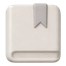
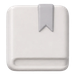
홈 머리글 입체 아이콘을 시안처럼: 색은 회백색으로, 크기 25dp·맨 끝 여백 14dp(화면 폭 비로 맞춤)

diff --git a/app/src/features/home/HomeScreen.tsx b/app/src/features/home/HomeScreen.tsx
@@ -96,8 +96,9 @@ const EMPTY_IDS: readonly string[] = [];
 const FRONT_HIT = 48;
 const FRONT_PAD = 10;
 const HEADER_TEXT_MAX = 1.3; // 머리줄 글자는 시스템 확대를 1.3배까지만(선반과 겹치지 않게)
-// 머리줄 오른쪽 아이콘(2026-11-10 사용자가 준 입체 아이콘 그림, assets/header: 투명 바탕 1·2·3배). 시안: 그림 약 20dp, 간격 약 33dp, 맨 끝 그림이 화면 끝에서 약 15dp
-const HEADER_ART = 22;
+// 머리줄 오른쪽 아이콘(2026-11-10 사용자가 준 입체 아이콘 그림, assets/header: 투명 바탕 1·2·3배, 시안 회백색으로 맞춤). 시안(화면 폭 대비): 그림 약 5.6%(411dp에서 23dp),
+// 간격 8.3%(34dp), 맨 끝 그림이 화면 끝에서 3.3%(14dp)
+const HEADER_ART = 25;
 const HEADER_CELL = 34;
 const HEADER_ICONS = {
   store: require('../../../assets/header/store.png'),
@@ -1187,8 +1188,8 @@ const styles = StyleSheet.create({
   header: { flexDirection: 'row', alignItems: 'flex-start' }, // 탭 첫 화면 머리줄과 같은 정렬(제목 위 기준)
   titles: { flex: 1, minWidth: 0 },
   year: { color: colors.inkSoft, marginTop: 4 },
-  // 아이콘 가운데는 제목 줄(34) 가운데보다 약 6dp 아래(시안), 맨 끝 그림은 화면 끝에서 약 15dp(머리줄 좌우 여백 24에서 당긴다)
-  actions: { flexDirection: 'row', alignItems: 'center', marginTop: 1, marginRight: -(tabHeader.paddingHorizontal - 15 - (HEADER_CELL - HEADER_ART) / 2) },
+  // 아이콘 가운데는 제목 줄(34) 가운데보다 약 6dp 아래(시안), 맨 끝 그림은 화면 끝에서 약 14dp: 머리줄 좌우 여백 24에서 칸 끝을 14 − (칸 − 그림)/2 자리까지 당긴다
+  actions: { flexDirection: 'row', alignItems: 'center', marginTop: 1, marginRight: -(tabHeader.paddingHorizontal - 14 + (HEADER_CELL - HEADER_ART) / 2) },
   headerIcon: { width: HEADER_CELL, height: 44, alignItems: 'center', justifyContent: 'center' },
   headerArt: { width: HEADER_ART, height: HEADER_ART },
   toast: {

diff --git a/docs/DESIGN.md b/docs/DESIGN.md
@@ -331,7 +331,7 @@
 
 - **움푹 파인 책장**(2026-11-04 사용자 시안, `scene-config/skin.ts`): 선반·틀·벽지를 스킨으로 나눴다. 시안 구도는 `LOOK`(거리 3300, 눈높이 150, 판 19mm). 맞닿는 면은 모서리에서 투명하게 번져 밑면으로 넘어간다(`softEdge`, 폭 3mm, 뒷벽 꼭지점 6mm). 틀 없는 전 책장은 `pine,none,white`로 그대로 켤 수 있다.
 - **잠긴 선반**(2026-11-04 사용자 시안, `features/home/LockedShelves.tsx`, `domain/locked-preview.ts`): 기본 3칸 아래 2칸(`SHELF_SLOTS` 5). 보통 줄과 같은 빛으로 색만 있는 예시 책을 세우고 책만 흐리게 한다(벽의 그림자는 또렷). 자물쇠(`#3F4347`), 누르면 구매 시트. 연 칸은 보통 선반으로 배치에 저장된다. **결제는 아직 연결하지 않아 '무료로 열기'로 표시한다.**
-- **홈 머리글 오른쪽 아이콘**(2026-11-10 사용자가 준 입체 아이콘 그림, `app/assets/header/*.png` 투명 바탕 1·2·3배, 잘라 만든 스크립트는 그림 원본과 함께 보관하지 않는다): 스토어·붓(꾸미기)·갈피 꽂힌 책(전체 책)·더하기. 그림 22dp, 칸 34dp(누르는 곳은 hitSlop으로 46), 맨 끝 그림이 화면 끝에서 약 15dp, 가운데는 제목 줄보다 약 6dp 아래(시안). 이전: 회색 선 아이콘 `iconSoft` #858585(2026-11-04). 지난 책장 공유 아이콘은 선 아이콘 `Share` + `iconSoft`.
+- **홈 머리글 오른쪽 아이콘**(2026-11-10 사용자가 준 입체 아이콘 그림, `app/assets/header/*.png` 투명 바탕 1·2·3배, 잘라 만든 스크립트는 그림 원본과 함께 보관하지 않는다): 스토어·붓(꾸미기)·갈피 꽂힌 책(전체 책)·더하기. 색은 시안 회백색에 맞춰 바꿨다(원본은 베이지, 가운데 224,219,217 · 그늘 약 184,180,178, 2026-11-10 사용자 '아이콘 색이 좀 다르지 않나'). 크기·자리는 시안을 화면 폭 비로 맞췄다(사용자 '크기도 좀 다르지 않나'): 그림 25dp(화면 폭의 약 5.6%), 칸 34dp(8.3%, 누르는 곳은 hitSlop으로 46), 맨 끝 그림이 화면 끝에서 14dp(3.3%), 가운데는 제목 줄보다 약 6dp 아래. 이전: 회색 선 아이콘 `iconSoft` #858585(2026-11-04). 지난 책장 공유 아이콘은 선 아이콘 `Share` + `iconSoft`.
 - **스토어**(2026-11-04, `app/store.tsx`; 2026-11-10 사용자 '실제처럼 선반이랑, 예시는 선반 위에 책 1~2개만', '실시간으로'): 위 미리보기는 홈 책장과 같은 그림으로 선반 한 칸에 예시 책 두 권('데미안' 책등·'느린 계절' 표지, `features/store/SkinPreview`). 선반·벽지·벽 색을 고르면 미리보기가 바로 바뀌고, '적용하기'는 앱을 다시 켜지 않고 홈에 반영한다(`ui/skin-live`: 스킨 조합 64개의 빛 맞추기를 미리 계산해 둔 표 `domain/light-calibration.generated.ts`, 셰이더의 맞추기 값은 uniform). 고르기만 하고 나가면 원래 스킨으로 돌아간다. 벽 있음 ↔ '벽 없이 선반만'은 카메라·판 모양·빛 배치가 달라 미리보기 대신 안내 글을 띄우고 '적용하고 다시 켜기'로 앱을 다시 켠다(이때도 맞추기는 표에서 읽어 기다림 없음).
 - **꾸미기 진입**(2026-11-05 사용자): 책장 메뉴 시트를 없애고 머리줄 오른쪽 붓 아이콘(`DecorateIcon`)으로 바로 들어간다. 순서는 스토어·꾸미기·전체 책·추가. 제목은 누르는 곳이 아니다(측정 빌드 `?perfmenu=1`만 측정 메뉴). '빈 선반 정리'는 빈 선반이 있을 때만 꾸미기 패널에 나온다. 내 책 찾기 화면은 전체 책 검색과 겹쳐 지웠고 완독한 해 거르기는 전체 책 필터로 옮겼다(2026-11-05 사용자 '왜 있어').
 - **전체 책 목록 보기**(2026-11-05 사용자 시안, `BookListRow`): 표지 + 제목 + '저자 · 상태' + 한 줄 감상 두 줄(줄 끝까지). 메모(독서 기록·갈피의 메모)가 있으면 제목 줄 오른쪽에 메모 아이콘, 누르면 아이콘에서 작은 상자가 커지며 최근 5개를 보여 준다(`MemoPopover`, 바깥 누르면 닫힘). 줄마다 진열 버튼은 두지 않는다(위 '책장에 진열', 꾹 누르기).
